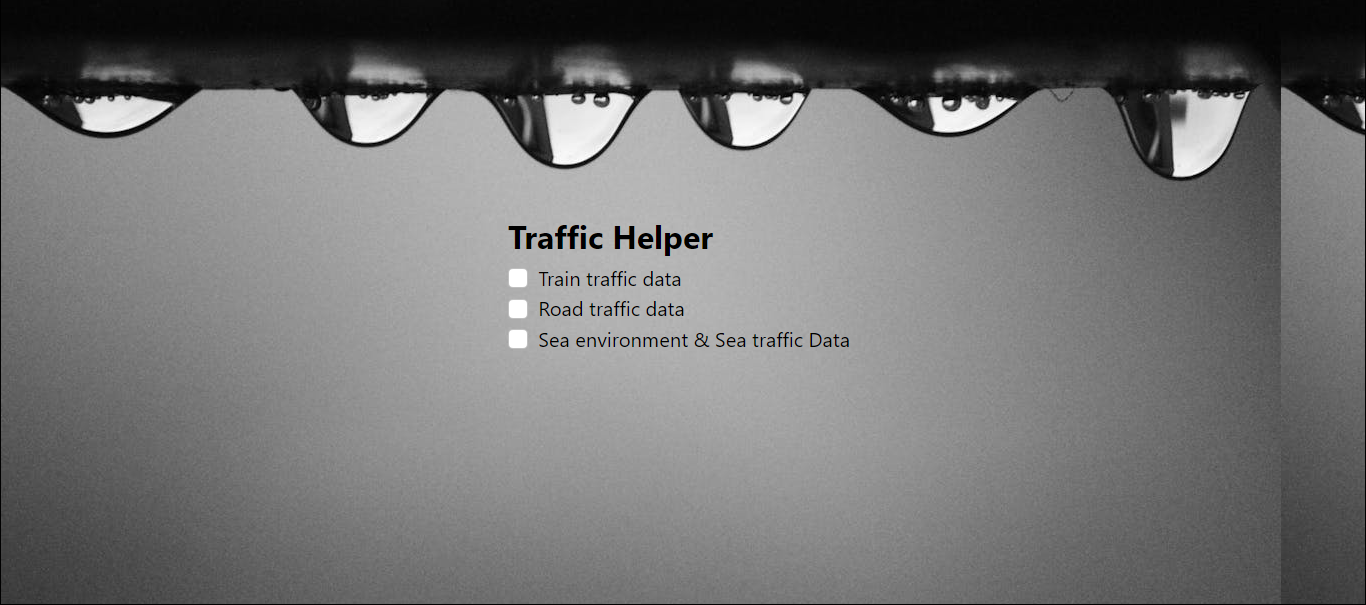
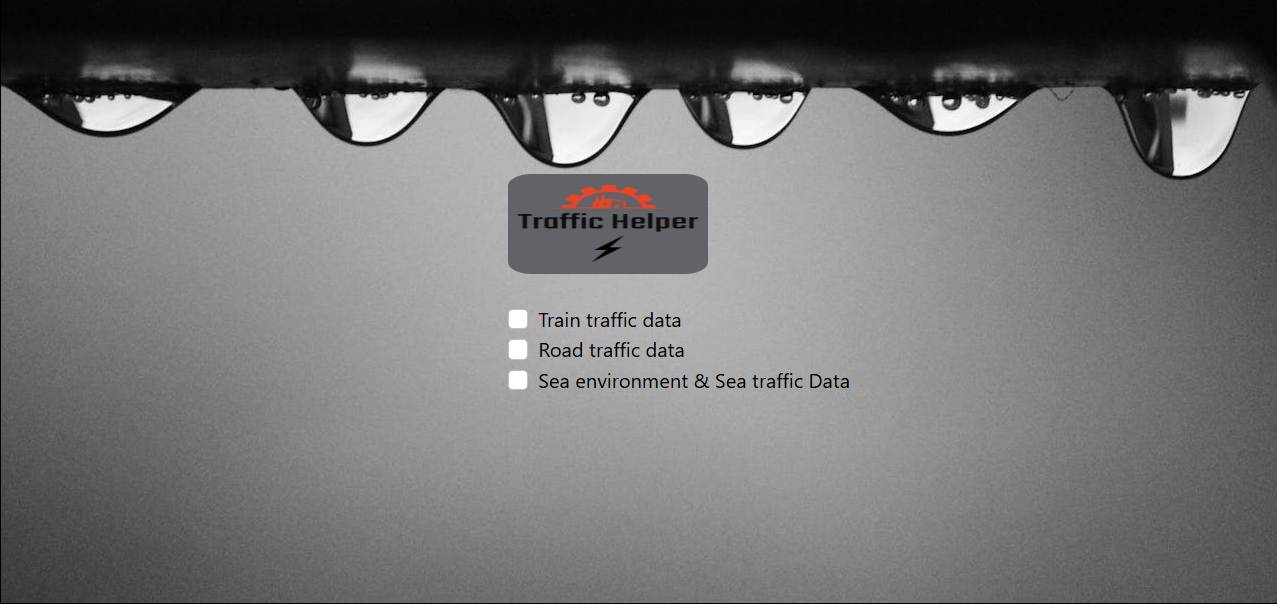
improvements to road.js

Changed region(s): [[0.1832, 0.0596, 1.0, 0.6556], [0.0, 0.1192, 0.1527, 0.2384], [0.9162, 0.8642, 0.9773, 1.0]]

diff --git a/src/pages/sea.js b/src/pages/sea.js
@@ -9,33 +9,33 @@ function Sea() {
     const [waterName, setWaterName] = useState('')
     const [latitude, setLatitude] = useState()
     const [longitude, setLongitude] = useState()
-    const [mapState,setMapState]=useState(false)
-    const [waterAreas,setWaterAreas]=useState(true)
-    const [closeButton,setCloseButton]=useState(true)
-    const [warnings,setWarnigns]=useState(false)
-    const [hideSafety,setHideSafety]=useState(false)
-    const [hideMarine,setHideMarine]=useState(false)
-    var clicks=0
+    const [mapState, setMapState] = useState(false)
+    const [waterAreas, setWaterAreas] = useState(true)
+    const [closeButton, setCloseButton] = useState(true)
+    const [warnings, setWarnigns] = useState(false)
+    const [hideSafety, setHideSafety] = useState(false)
+    const [hideMarine, setHideMarine] = useState(false)
+    const [ttsBtn,setTtsBtn]=useState(true)
+    var clicks = 0
     //useeffect huomaa heti, jos latitude longitude statet muuttuvat
     useEffect(() => {
         setLatitude(latitude);
         setLongitude(longitude)
-       
+
     }, [latitude, longitude])
 
     function hideContent() {
-        clicks=clicks+1
-        if (clicks % 1 === 0)
-        {
-            document.getElementById("lakeContent").hidden=true
+        clicks = clicks + 1
+        if (clicks % 1 === 0) {
+            document.getElementById("lakeContent").hidden = true
             setCloseButton(!closeButton)
             //poistetaan cb:n valinta
-            document.getElementById("safetyCB").checked=false
+            document.getElementById("safetyCB").checked = false
 
         }
-       
+
     }
-  
+
     function executeWaterArea() {
         setWaterAreas(!waterAreas)
         setHideSafety(!hideSafety)
@@ -44,10 +44,10 @@ function Sea() {
 
 
     function safetyFails() {
-        document.getElementById("lakeContent").hidden=false
+        document.getElementById("lakeContent").hidden = false
         setCloseButton(!closeButton)
         const seaUrl = 'https://meri.digitraffic.fi/api/aton/v1/faults'
-      
+
         fetch(seaUrl)
             .then(response => {
                 return response.json()
@@ -60,22 +60,21 @@ function Sea() {
                     const li = document.createElement("li")
 
                     //kentässä näytetää json tulosjoukon roadstationid ja sensorvalue-
-                    li.innerText = "Area: " + d.properties.area_description + 'fairway: ' + d.properties.fairway_name_fi+" fixed: "+d.properties.fixed
+                    li.innerText = "Area: " + d.properties.area_description + 'fairway: ' + d.properties.fairway_name_fi + " fixed: " + d.properties.fixed
                     document.getElementById("list").appendChild(li)
-                   
+
+                })
             })
-        })
     }
     function availableAreas() {
-        clicks = clicks+1
-        if(clicks %2 ===0)
-        {
-            document.getElementById("list").innerText=""
-            document.getElementById("list").hidden=true
-        
+        clicks = clicks + 1
+        if (clicks % 2 === 0) {
+            document.getElementById("list").innerText = ""
+            document.getElementById("list").hidden = true
+
         }
-        else{
-            document.getElementById("list").hidden=false
+        else {
+            document.getElementById("list").hidden = false
             const seaUrl = 'https://meri.digitraffic.fi/api/sse/v1/measurements'
             const USERID = { 'Digitraffic-User': 'Junamies/FoobarApp 1.0' }
             fetch(seaUrl, { headers: USERID })
@@ -84,26 +83,26 @@ function Sea() {
                 })
                 //data on json-tulosjoukon nimi
                 .then(data => {
-    
+
                     console.log(data)
-    
+
                     data.features.forEach(d => {
                         const li = document.createElement("li")
-    
+
                         //kentässä näytetää json tulosjoukon roadstationid ja sensorvalue-
                         li.innerText = "name: " + d.properties.siteName + 'site number: ' + d.properties.siteNumber
                         document.getElementById("list").appendChild(li)
                     })
-                   
-                  
+
+
                 })
         }
 
-        }
-    
+    }
+
 
     function getSelectedLake(lake) {
-        document.getElementById("list").innerText=" "
+        document.getElementById("list").innerText = " "
 
         const seaUrl = `https://meri.digitraffic.fi/api/sse/v1/measurements?siteNumber=${lake}`
         const USERID = { 'Digitraffic-User': 'Junamies/FoobarApp 1.0' }
@@ -116,27 +115,21 @@ function Sea() {
 
                 console.log(data)
 
-              
+
                 data.features.forEach(d => {
                     const li = document.createElement("li")
 
                     //kentässä näytetää json tulosjoukon roadstationid ja sensorvalue-
-                    li.innerText = "name: " + d.properties.siteName + ' water temperature: ' + d.properties.temperature + ' °C ' + 'Coordinates: ' + d.geometry.coordinates + " Wind-wave direction: " + d.properties.windWaveDir
-                  
+                    li.innerText = "name: " + d.properties.siteName + ' water temperature: ' + d.properties.temperature + ' °C ' + 'Coordinates: ' + d.geometry.coordinates + " Wind-wave direction: " + d.properties.windWaveDir+' Data updated: '+d.properties.lastUpdate.replace("T"," ").replace("Z"," ")
+
                     setLongitude(d.geometry.coordinates[0])
                     setLatitude(d.geometry.coordinates[1])
-                    document.getElementById("list").hidden=false
+                    document.getElementById("list").hidden = false
                     document.getElementById("list").appendChild(li)
-             
-                  
-                    
                 })
-                
-               
-                
-              
             })
-            //speakBtn.addEventListener("click",speak(document.getElementById("list").innerHTML))
+            setTtsBtn(!ttsBtn)
+        //speakBtn.addEventListener("click",speak(document.getElementById("list").innerHTML))
 
 
     }
@@ -145,13 +138,13 @@ function Sea() {
         const utterance = new SpeechSynthesisUtterance(val);
         const voices = speechSynthesis.getVoices();
         utterance.voice = voices[0];
-        utterance.lang="en-US"
+        utterance.lang = "en-US"
         speechSynthesis.speak(utterance);
-      }
+    }
     return (
         <div>
-            
-         
+
+
             <Routes>
                 <Route>
                     <Route path="/websocket" element={<WsComponent />} />
@@ -161,22 +154,22 @@ function Sea() {
             <div id="lakeContent" className="lakeContent">
                 <ul id="list" className="list"></ul>
             </div>
-            
-            
-            <input class="form-check-input" id="speakCB" onClick={()=>speak(document.getElementById("list").innerHTML)}></input>
-            <label class="form-check-label" for="speakCB">Convert text to speech</label>
+
+
+            <input class="form-check-input" hidden={ttsBtn} id="speakCB" onClick={() => speak(document.getElementById("list").innerHTML)}></input>
+            <label class="form-check-label" hidden={ttsBtn} for="speakCB">Convert text to speech</label>
             <hr className="hrLine"></hr>
             <input class="form-check-input" hidden={hideSafety} id='safetyCB' type="checkbox" onClick={safetyFails}></input>
             <label class="form-check-label" hidden={hideSafety} for="safetyCB">Safety device faults</label>
             <br></br>
-            <input class="form-check-input" hidden={hideMarine} id='marineCB' onChange={()=>setWarnigns(!warnings)} type="checkbox" ></input>
+            <input class="form-check-input" hidden={hideMarine} id='marineCB' onChange={() => setWarnigns(!warnings)} type="checkbox" ></input>
             <label class="form-check-label" hidden={hideMarine} for="marineCB">Marine warnings</label>
             <br></br>
             <input class="form-check-input" id='waterCB' type="checkbox" onChange={executeWaterArea} ></input>
             <label class="form-check-label" for="waterCB">Water area information</label>
             <br></br>
             <label for="lake" hidden={waterAreas}>Choose a water area:</label>
-            {warnings&&<MarineWarnings/>}
+            {warnings && <MarineWarnings />}
 
             <select hidden={waterAreas} name="lake" id="lake" onChange={e => getSelectedLake(e.target.value)}>
                 <option value="8859">Kelloniemi</option>
@@ -186,37 +179,37 @@ function Sea() {
             </select>
             <hr className="hrLine"></hr>
             <br></br>
-            <input class="form-check-input" hidden={waterAreas} id="map" type="checkbox" onChange={()=>setMapState(!mapState)}></input>
+            <input class="form-check-input" hidden={waterAreas} id="map" type="checkbox" onChange={() => setMapState(!mapState)}></input>
             <label class="form-check-label" hidden={waterAreas} for="map">Show the water area on the map</label>
-           
+
             <br></br>
-    
+
             <div>
                 {/*käytetään samaa halufunktiota sekä select että input kentässä. erona ainoastaa se
     että syötekenttä haussa parametri tallennetaan state-muuttujaan ja lähetetään funktiolle
     vasta onclick kutsussa.*/}
-                
+
                 <br></br>
                 <Link hidden to="/websocket">WebSocket</Link>
                 <div className="seaInput">
                     <input type="text" hidden={waterAreas} id="name" className="name" placeholder="Or write site number here" onChange={e => setWaterName(e.target.value)}></input>
 
                     <button onClick={() => getSelectedLake(waterName)} hidden={waterAreas} class="btn btn-primary btn-sm">Fetch Data</button>
-                    
-                    <button class="btn btn-primary btn-sm"hidden={waterAreas} onClick={availableAreas}>Show site numbers</button>
+
+                    <button class="btn btn-primary btn-sm" hidden={waterAreas} onClick={availableAreas}>Show site numbers</button>
                 </div>
                 <br></br>
                 <div className="mapArea">
-                {mapState && <APIProvider apiKey={""}>
-                <Map
-                    
-                    style={{ width: '50vw', height: '45vh' }}
-                    defaultCenter={{ lat: latitude, lng: longitude }}
-                    defaultZoom={12}
-                    gestureHandling={'greedy'}
-                    disableDefaultUI={false} />
-            </APIProvider>}
-            </div>
+                    {mapState && <APIProvider apiKey={""}>
+                        <Map
+
+                            style={{ width: '50vw', height: '45vh' }}
+                            defaultCenter={{ lat: latitude, lng: longitude }}
+                            defaultZoom={12}
+                            gestureHandling={'greedy'}
+                            disableDefaultUI={false} />
+                    </APIProvider>}
+                </div>
             </div>
         </div>
 

diff --git a/src/pages/road.js b/src/pages/road.js
@@ -9,7 +9,9 @@ function Road() {
     var [long,setLong]=useState(0)
     const [showMap,setShowMap]=useState(false)
 
-    const setMap=(id)=>{
+    const setMapCoordinates=(id)=>{
+        setLat(lat=0)
+        setLong(long=0)
         var coordinates = document.getElementById(id).value
         var coordSplit = coordinates.split(",")
         setLong(long=parseFloat(coordSplit[0]))
@@ -37,10 +39,12 @@ function Road() {
                     const li = document.createElement("li")
                     const mapBtn=document.createElement("button")
                     mapBtn.setAttribute("class","btn btn-primary btn-sm")
-                    //funktion lisääminen dynaamisesti luotuun buttoniin
+                    
                     mapBtn.id="mapBtn"+i
-                    mapBtn.addEventListener("click",()=>setMap(mapBtn.id))
+                    //funktion lisääminen dynaamisesti luotuun buttoniin
+                    mapBtn.addEventListener("click",()=>setMapCoordinates(mapBtn.id))
                     mapBtn.textContent="Show in map"
+                    //koordinaattien tallennus buttonin value propertyyn
                     mapBtn.value=d.geometry.coordinates[0][0]
                     
                  
@@ -103,14 +107,25 @@ function Road() {
             //data on json-tulosjoukon nimi
             .then(data => {
                 console.log(data)
+                var j =0
 
                 data.features.forEach(d => {
+
+                    j+=1
                     const li = document.createElement("li")
+                    const mapBtn=document.createElement("button")
+                    mapBtn.setAttribute("class","btn btn-primary btn-sm")
+                    //funktion lisääminen dynaamisesti luotuun buttoniin
+                    mapBtn.id="mapBtn"+j
+                    mapBtn.addEventListener("click",()=>setMapCoordinates(mapBtn.id))
+                    mapBtn.textContent="Show in map"
+                    //mapBtn.value=d.properties.geometry[0].coordinates
                     
 
                     //kentässä näytetää json tulosjoukon roadstationid ja sensorvalue-
-                    li.innerText = d.properties.announcements[0].location.description + ' ' + d.properties.announcements[0].comment
+                    li.innerText = d.properties.announcements[0].location.description + ' ' + d.properties.announcements[0].comment+' Ask more: '+d.properties.contact.email+' '+d.properties.contact.phone
                     document.getElementById("list").appendChild(li)
+                    document.getElementById("list").appendChild(mapBtn)
                 })
 
 

diff --git a/src/App.js b/src/App.js
@@ -7,6 +7,7 @@ import WsComponent from './pages/seaWebSocket';
 import { useState } from 'react';
 import { BrowserRouter, Routes, Route, Link } from 'react-router-dom';
 
+import tfLogoBlack from './images/tfLogoBlack.png'
 
 
 function App() {
@@ -51,7 +52,9 @@ function App() {
 
 
       <div>
-        <h2 className='title'>Traffic Helper</h2>
+      
+        <img className='tfLogo' src={tfLogoBlack} height={100} width={200}></img>
+       <br></br><br></br>
         <div class="form-check">
           <input class="form-check-input" id='trainCB' hidden={hideTrain} type="checkbox"  onChange={() => helper('trainOpt')}></input>
           <label class="form-check-label"hidden= {hideTrain}  for="trainCB">Train traffic data</label>

diff --git a/src/App.css b/src/App.css
@@ -85,5 +85,13 @@
   border-width: 4;
   color: black;
 }
+.flexHelpBtn {
+  
+  float: right;
+}
+.tfLogo {
+  border-radius: 12%;
+  
+}
 
 
